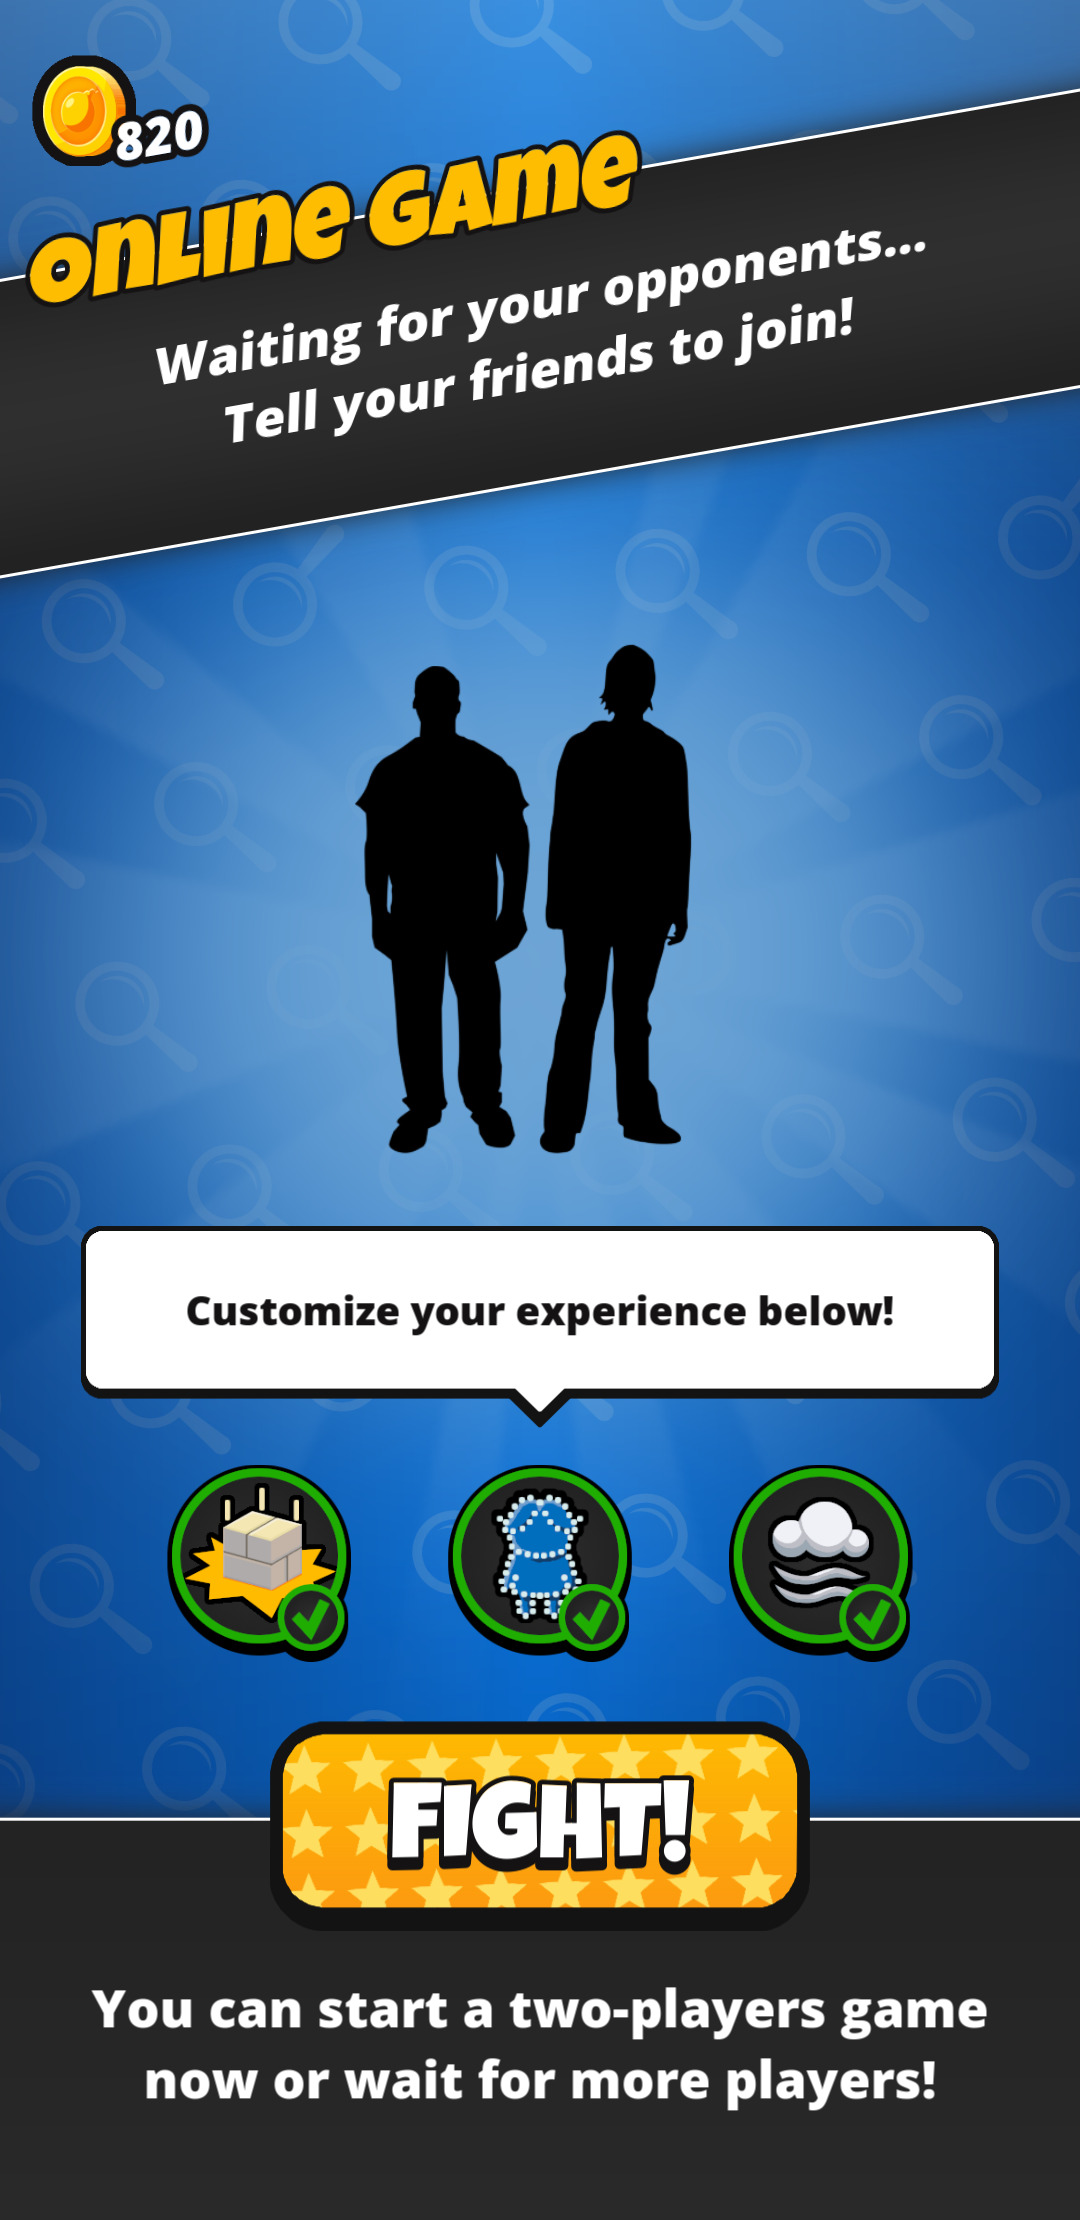
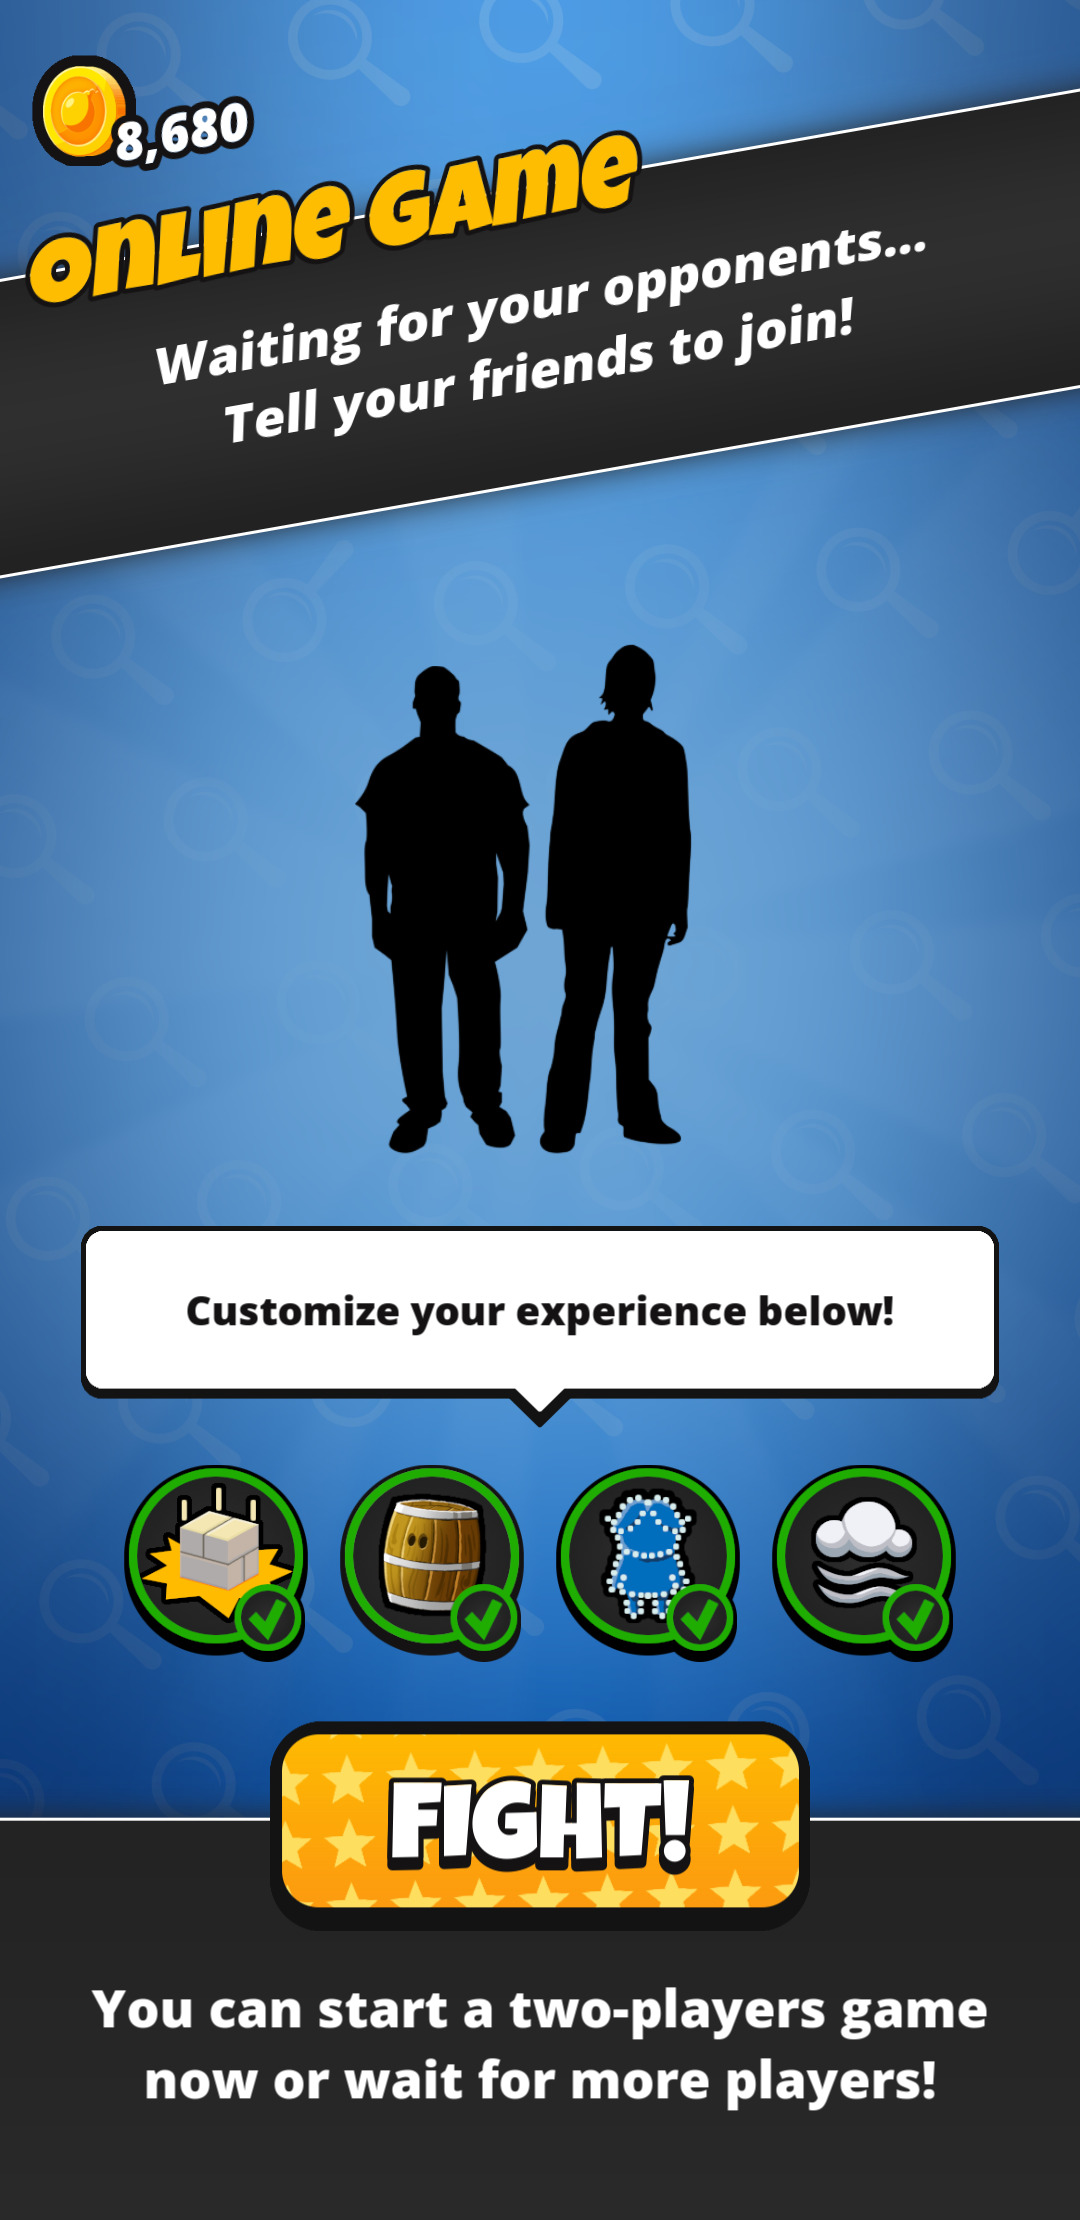
Update the screenshots and the metadata.

Changed region(s): [[0.0, 0.1865, 1.0, 0.8703], [0.1222, 0.0, 0.7333, 0.0932], [0.7333, 0.5284, 0.8556, 0.5595]]

diff --git a/README.md b/README.md
@@ -13,9 +13,9 @@ walls or, ultimately, attack another player. Sometimes the broken
 walls will expose a bonus such as extra bombs or an increase of the
 bombs' blast distance.
 
-The match features can be selected from the matchmaking
-screen. Features enabled by all participants will be used in the game,
-allowing players to customize their contest.
+The match features can be selected from the matchmaking screen. It is
+enough of one player enabling a feature for all players benefiting
+from it during the contest.
 
 <p align="center">
   <img src="docs/readme/title-screen.jpg" width="270px"/>
